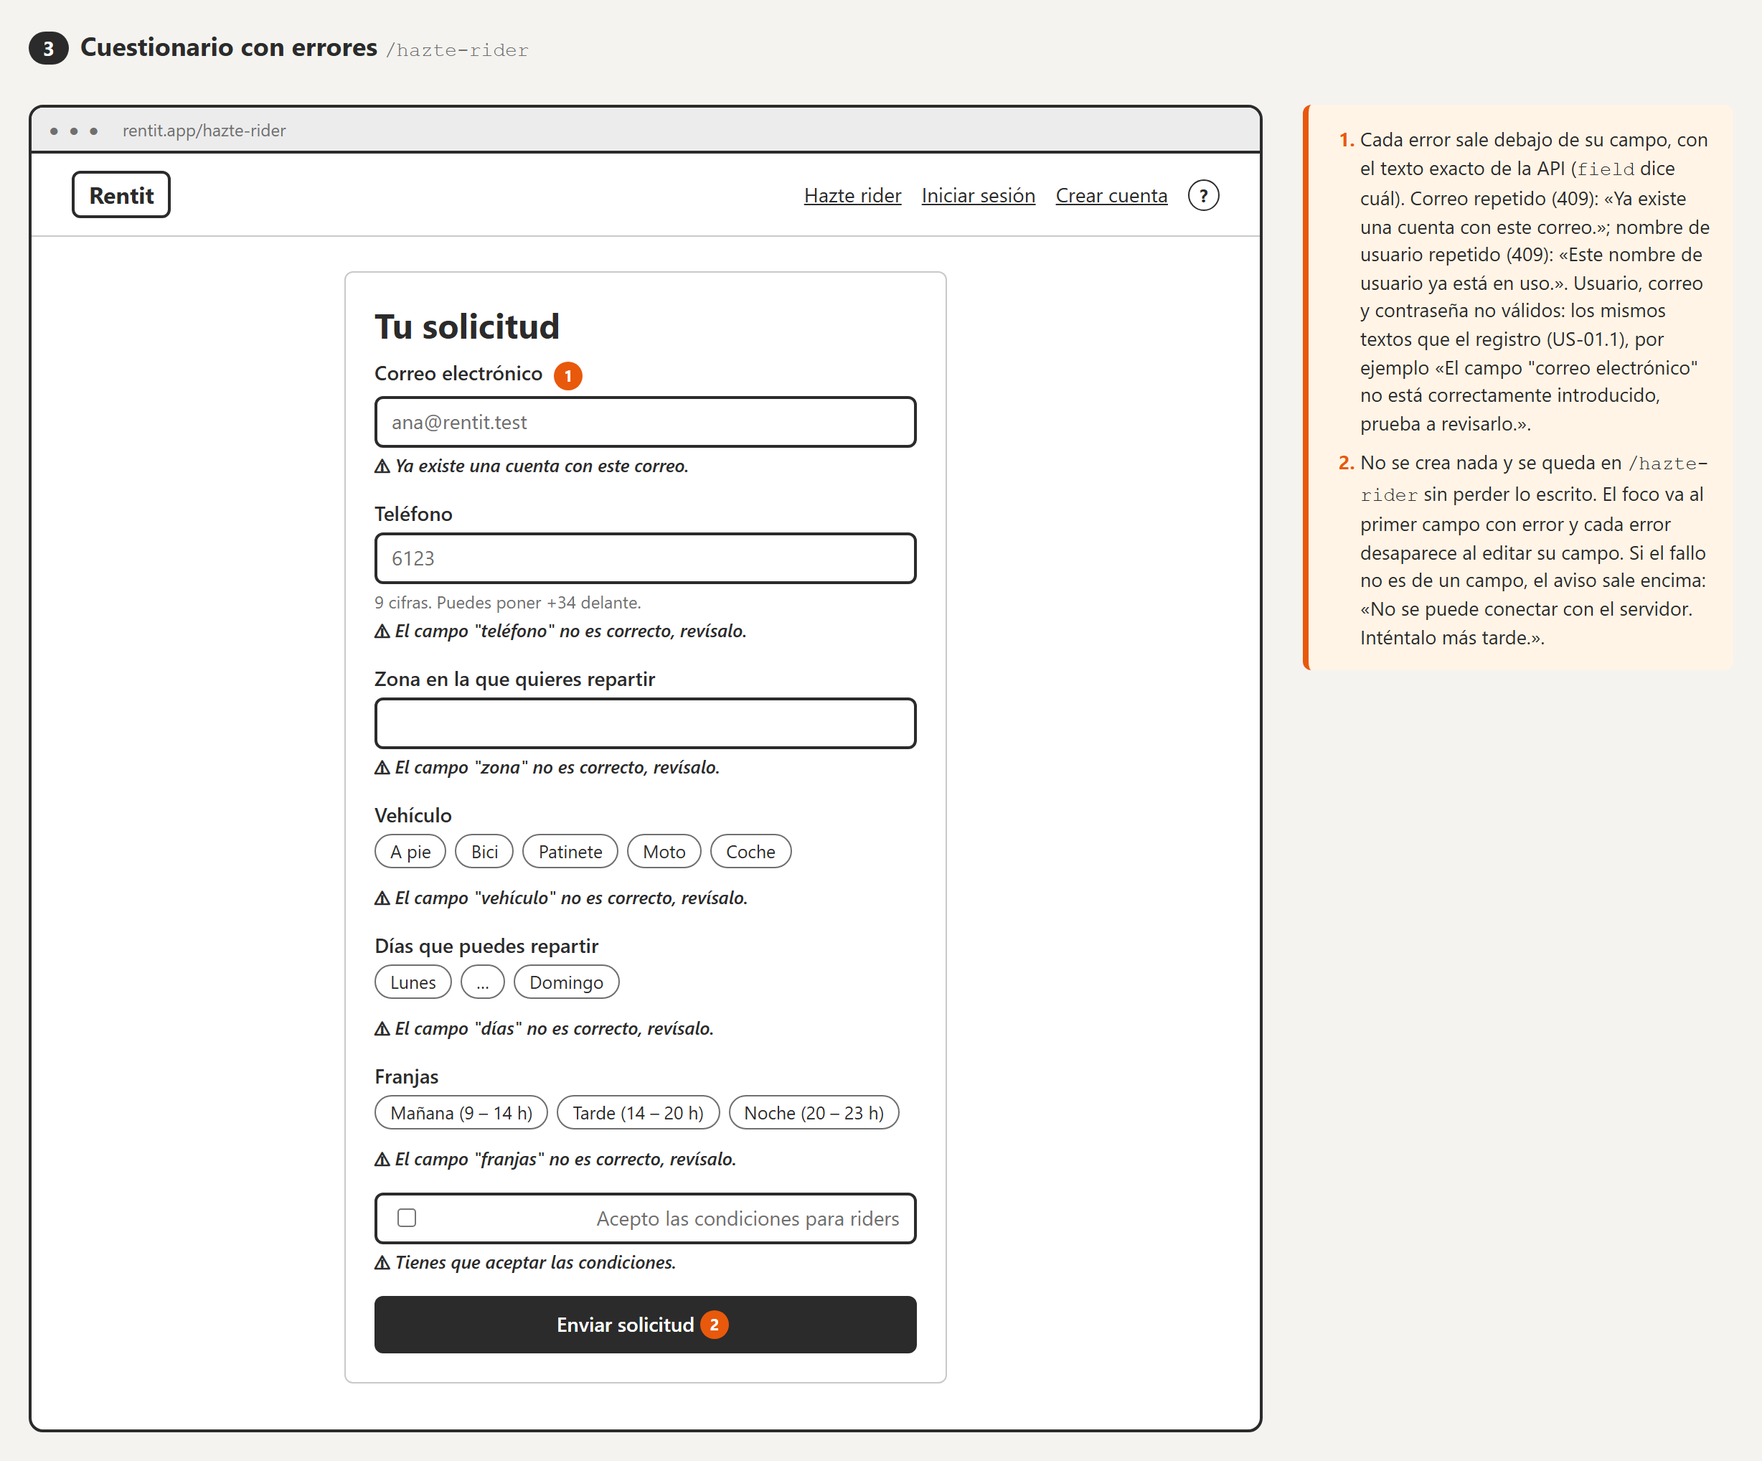
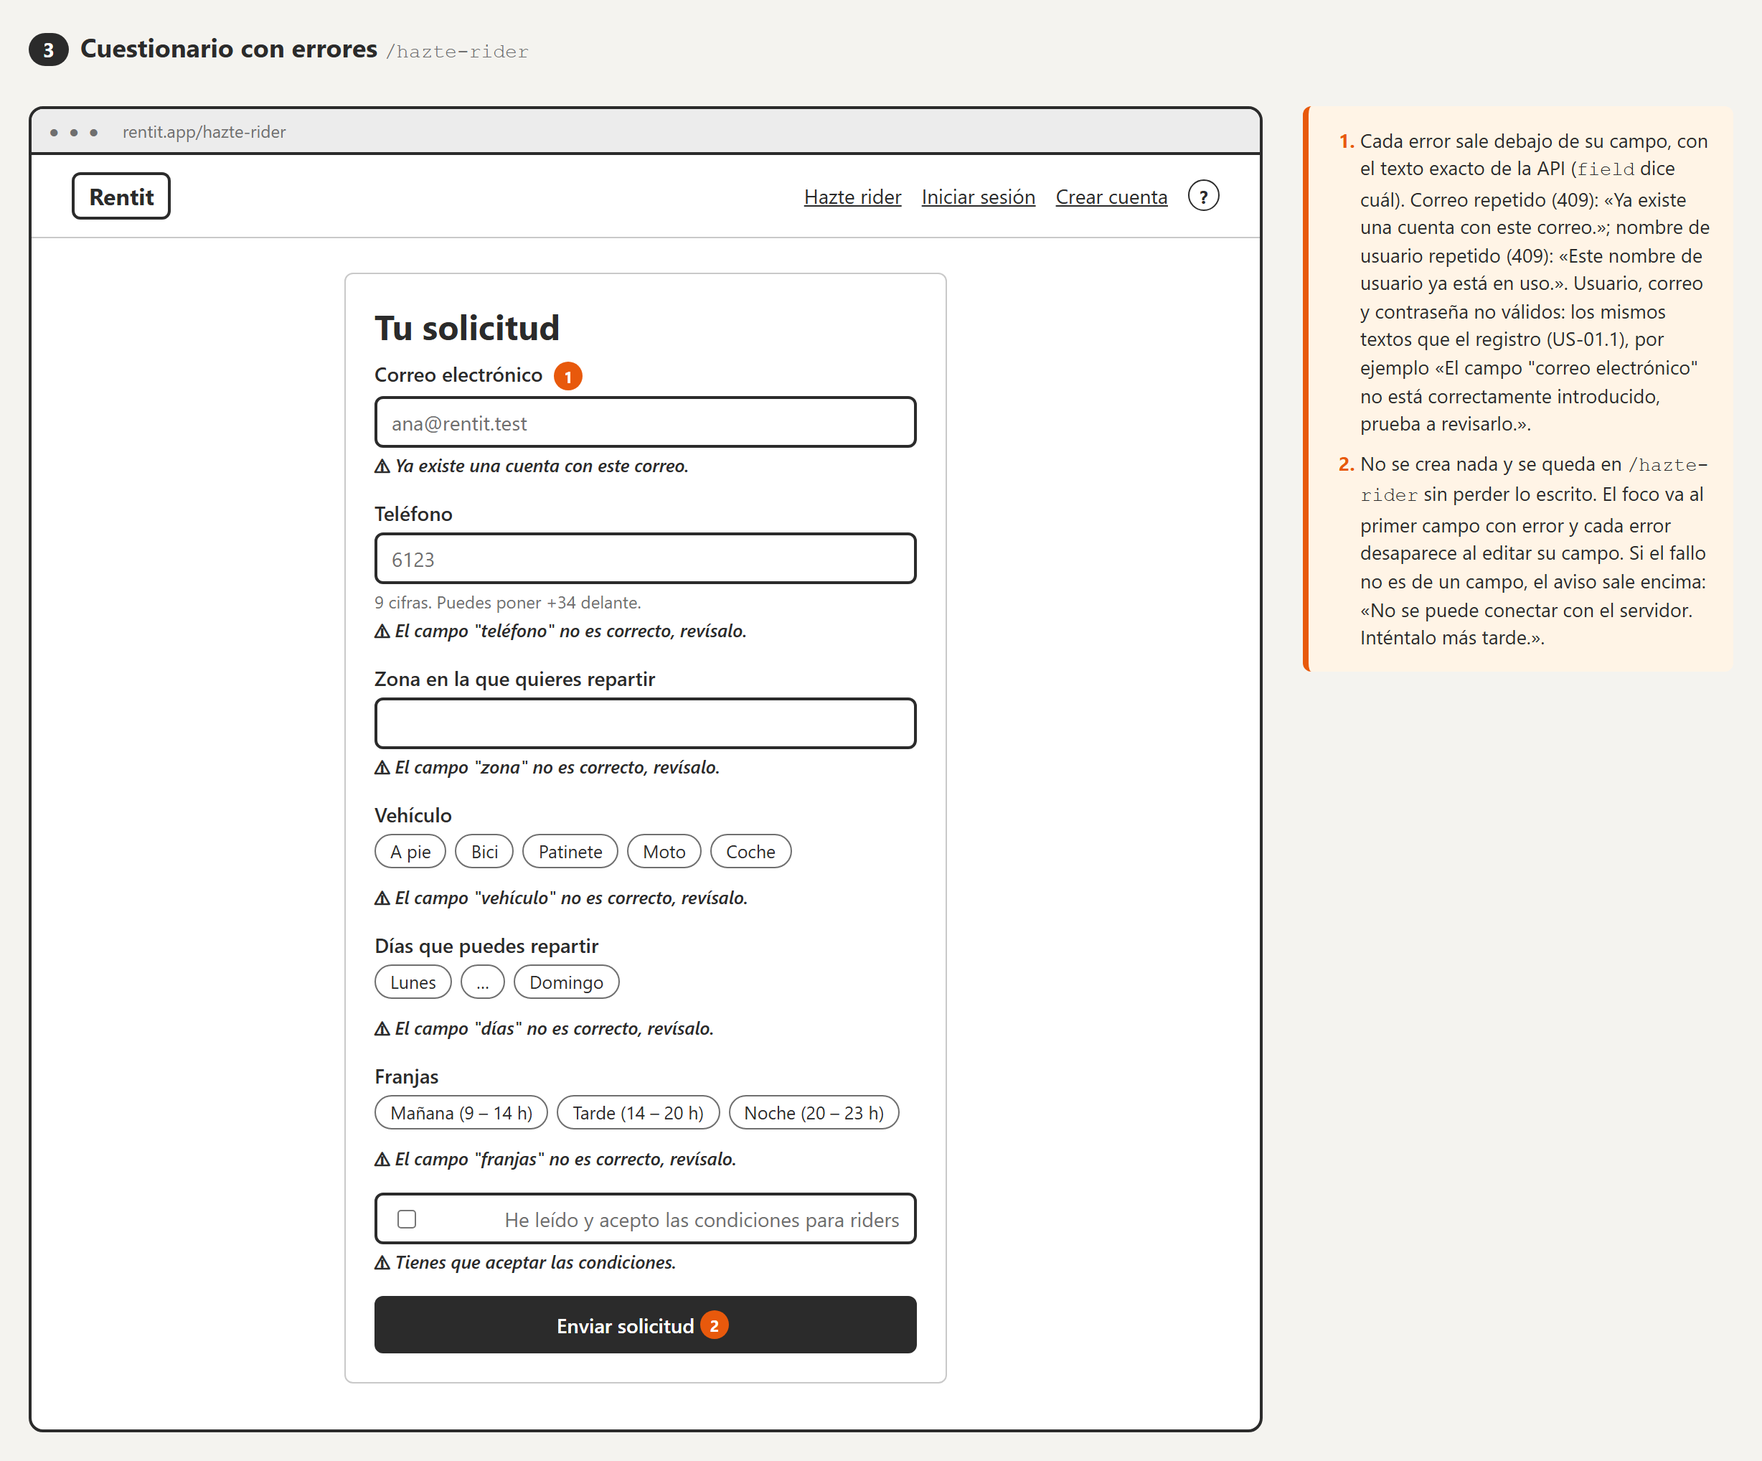
docs(wireframes): US-10.03 condiciones, estado en el inicio y rider sin búsqueda (#315)

diff --git a/docs/wireframes/US-10.03-hazte-rider/index.html b/docs/wireframes/US-10.03-hazte-rider/index.html
@@ -14,7 +14,7 @@
       </p>
       <p class="wf-meta">
         Issue #304 · Tarea T35 (#315) · Contrato del backend: #322 y #325 (<code>POST /api/riders</code>) · Wireframe de
-        baja fidelidad · Generado con asistencia de IA (Claude) – pendiente de revisión por Marc Sanz, 13/11/2026
+        baja fidelidad · Generado con asistencia de IA (Claude) – validado por Marc el 13/11/2026
       </p>
     </header>
 
@@ -54,7 +54,7 @@
       <ol class="wf-notas">
         <li>
           «Hazte rider» está en la cabecera de todas las páginas mientras no hay sesión (criterio 1). En el móvil va en la
-          barra inferior. Lleva a <code>/hazte-rider</code>. Con sesión no se ve (ver pregunta 5).
+          barra inferior. Lleva a <code>/hazte-rider</code>. Con sesión no se ve (decisión 4).
         </li>
       </ol>
     </section>
@@ -78,7 +78,7 @@
                 <h3 class="wf-h1">Hazte rider</h3>
                 <p class="wf-texto">Lleva objetos entre vecinos de tu barrio cuando te vaya bien.</p>
                 <p class="wf-texto"><strong>Qué hace un rider:</strong> recoge el objeto en casa del propietario y lo entrega a quien lo alquila.</p>
-                <p class="wf-texto"><strong>Cuánto cobra:</strong> 3, 5 o 7 € por entrega, según la distancia. <span class="wf-marca">1</span></p>
+                <p class="wf-texto"><strong>Cuánto cobras:</strong> la tarifa de entrega de cada trabajo, de 3 a 7 € según la distancia. <span class="wf-marca">1</span></p>
                 <p class="wf-texto"><strong>Requisitos:</strong> mayor de edad, móvil y un medio para moverte.</p>
                 <p class="wf-ayuda">La cuenta de rider es aparte: no sirve para alquilar ni publicar objetos. <span class="wf-marca">2</span></p>
               </div>
@@ -130,7 +130,19 @@
                   <p class="wf-ayuda">Marca al menos una.</p>
                 </div>
                 <div class="wf-campo">
-                  <div class="wf-input"><input type="checkbox" checked /> Acepto las <span class="wf-enlace">condiciones para riders</span> <span class="wf-marca">5</span></div>
+                  <label>▾ Condiciones para riders <span class="wf-marca">5</span></label>
+                  <ul class="wf-texto">
+                    <li>Colaboras de forma independiente y voluntaria: eliges cuándo y qué trabajos haces.</li>
+                    <li>Cobras por cada trabajo hecho: la tarifa de entrega que se muestra al aceptarlo.</li>
+                    <li>Cuidas los objetos y los entregas a tiempo, en el estado en que los recoges.</li>
+                    <li>Solo marcas un objeto como entregado con el código que te da quien lo recibe.</li>
+                    <li>Tus datos se usan solo para gestionar las entregas.</li>
+                    <li>Puedes darte de baja cuando quieras.</li>
+                    <li>Rentit puede desactivar tu cuenta si no cumples estas condiciones.</li>
+                  </ul>
+                </div>
+                <div class="wf-campo">
+                  <div class="wf-input"><input type="checkbox" checked /> He leído y acepto las condiciones para riders</div>
                 </div>
                 <span class="wf-boton wf-ancho">Enviar solicitud <span class="wf-marca">6</span></span>
                 <p class="wf-ayuda">¿Ya has enviado tu solicitud? <span class="wf-enlace">Inicia sesión</span> para ver cómo va.</p>
@@ -142,7 +154,7 @@
           <nav class="wf-nav"><span class="wf-logo">Rentit</span><span class="wf-icono-ayuda" title="Ayuda">?</span></nav>
           <div class="wf-contenido">
             <h3 class="wf-h1">Hazte rider</h3>
-            <p class="wf-texto">Lleva objetos entre vecinos de tu barrio. 3, 5 o 7 € por entrega.</p>
+            <p class="wf-texto">Lleva objetos entre vecinos de tu barrio. Cobras de 3 a 7 € por entrega.</p>
             <div class="wf-campo"><label>Nombre de usuario</label><div class="wf-input">pau.rider</div></div>
             <div class="wf-campo"><label>Correo electrónico</label><div class="wf-input">pau@ejemplo.com</div></div>
             <div class="wf-campo"><label>Contraseña</label><div class="wf-input">••••••••</div></div>
@@ -153,6 +165,8 @@
               <div class="wf-chips"><span class="wf-chip">A pie</span><span class="wf-chip wf-activo">Bici</span><span class="wf-chip">…</span></div>
             </div>
             <div class="wf-campo"><label>Días y franjas</label><div class="wf-lineas"><span></span></div></div>
+            <p class="wf-texto"><strong>▸ Condiciones para riders</strong></p>
+            <div class="wf-input"><input type="checkbox" checked /> He leído y acepto las condiciones</div>
             <span class="wf-boton wf-ancho">Enviar solicitud</span>
           </div>
           <div class="wf-barra-inferior">
@@ -162,8 +176,9 @@
       </div>
       <ol class="wf-notas">
         <li>
-          Lo que cobra el rider no está decidido: 3, 5 o 7 € es la tarifa que paga el arrendatario por la entrega (US-05.01,
-          #321). Ver pregunta 1.
+          Decisión de Marc (13/11), <strong>a confirmar por el equipo</strong>: el rider cobra la tarifa de entrega de cada
+          trabajo. Es la que paga el arrendatario cuando elige «Entrega por rider» (US-05.01, #321): 3, 5 o 7 € según la
+          distancia entre barrios.
         </li>
         <li>Decisión 2 del equipo: cuenta aparte, pendiente hasta que un admin la acepte, sin alquilar ni publicar.</li>
         <li>
@@ -176,7 +191,7 @@
           <code>days</code> = monday … sunday; <code>slots</code> = morning | afternoon | night. Vehículo: uno; días y franjas:
           al menos uno, sin repetir.
         </li>
-        <li>Obligatorio (<code>acceptedTerms: true</code>). El texto de las condiciones no existe todavía: ver pregunta 2.</li>
+        <li>Las condiciones van en un bloque desplegable dentro del formulario, justo encima de la casilla (cerrado en el móvil). La casilla es obligatoria (<code>acceptedTerms: true</code>).</li>
         <li>
           Al pulsar se valida todo a la vez. Mientras se envía, el botón dice «Enviando solicitud…» y está desactivado.
           <code>POST /api/riders</code> no inicia sesión.
@@ -232,7 +247,7 @@
                 <p class="wf-error">El campo "franjas" no es correcto, revísalo.</p>
               </div>
               <div class="wf-campo">
-                <div class="wf-input wf-con-error"><input type="checkbox" /> Acepto las condiciones para riders</div>
+                <div class="wf-input wf-con-error"><input type="checkbox" /> He leído y acepto las condiciones para riders</div>
                 <p class="wf-error">Tienes que aceptar las condiciones.</p>
               </div>
               <span class="wf-boton wf-ancho">Enviar solicitud <span class="wf-marca">2</span></span>
@@ -288,40 +303,48 @@
     <p class="wf-flecha">Inicia sesión antes de que un admin la revise (<code>riderStatus: "pending"</code>)</p>
 
     <section class="wf-pantalla" data-captura="5-pendiente">
-      <h2><span class="wf-paso">5</span>Rider pendiente: solo ve el estado de su solicitud <code>/</code></h2>
+      <h2><span class="wf-paso">5</span>Rider pendiente: el inicio enseña su solicitud <code>/</code></h2>
       <div class="wf-dispositivos">
         <div class="wf-escritorio" data-url="rentit.app/">
           <nav class="wf-nav">
             <span class="wf-logo">Rentit</span>
             <span class="wf-enlaces"
-              ><span class="wf-enlace">Cerrar sesión</span><span class="wf-marca">1</span><span class="wf-icono-ayuda" title="Ayuda">?</span></span
+              ><span class="wf-enlace">Inicio</span><span class="wf-enlace">Mi perfil</span><span class="wf-marca">1</span
+              ><span class="wf-icono-ayuda" title="Ayuda">?</span></span
             >
           </nav>
           <div class="wf-contenido">
             <div class="wf-centrado wf-tarjeta">
-              <h3 class="wf-h1">Hola, pau.rider</h3>
+              <h3 class="wf-h1">Tu solicitud para ser rider</h3>
               <div class="wf-chips"><span class="wf-chip wf-activo">Pendiente de revisión</span></div>
-              <p class="wf-texto">Un admin está revisando tu solicitud para ser rider. Cuando la acepte, aquí verás los trabajos disponibles. <span class="wf-marca">2</span></p>
+              <p class="wf-texto">Hola, pau.rider. Un admin está revisando tu solicitud. <span class="wf-marca">2</span></p>
+              <p class="wf-texto"><strong>Qué pasará:</strong> cuando la acepte, al entrar irás directamente a «Trabajos» para elegir entregas. Si la rechaza, aquí verás el motivo.</p>
+              <span class="wf-boton wf-secundario">Cerrar sesión</span>
             </div>
           </div>
         </div>
         <div class="wf-movil">
           <nav class="wf-nav"><span class="wf-logo">Rentit</span><span class="wf-icono-ayuda" title="Ayuda">?</span></nav>
           <div class="wf-contenido">
-            <h3 class="wf-h1">Hola, pau.rider</h3>
+            <h3 class="wf-h1">Tu solicitud para ser rider</h3>
             <div class="wf-chips"><span class="wf-chip wf-activo">Pendiente de revisión</span></div>
-            <p class="wf-texto">Un admin está revisando tu solicitud.</p>
+            <p class="wf-texto">Un admin está revisando tu solicitud. Cuando la acepte, irás a «Trabajos».</p>
             <span class="wf-boton wf-secundario wf-ancho">Cerrar sesión</span>
           </div>
-          <div class="wf-barra-inferior"><span>Inicio</span></div>
+          <div class="wf-barra-inferior"><span>Inicio</span><span>Mi perfil</span></div>
         </div>
       </div>
       <ol class="wf-notas">
         <li>
-          Con <code>isRider: true</code> no se ven «Mis objetos», «Mis solicitudes», «Publicar un objeto» ni el buscador
-          (criterio 5); tampoco «Trabajos» mientras no esté aceptada (criterio 4). Ver pregunta 3 sobre la ruta.
+          Decisión de Marc (13/11): un rider solo ve el estado de su solicitud y «Trabajos». Su cabecera es «Inicio» (o
+          «Trabajos» si está aceptado) y «Mi perfil». No ve el buscador, ni fichas de objetos, ni «Mis objetos», «Mis
+          solicitudes» o «Publicar un objeto». Si entra en una de esas rutas, vuelve a <code>/</code>.
         </li>
-        <li>Después del login, un rider va a esta pantalla en lugar de la página inicial.</li>
+        <li>
+          Después del login, un rider pendiente o rechazado va a <code>/</code>, que en lugar de la portada enseña esta
+          tarjeta: la pantalla nunca queda vacía. «Cerrar sesión» está en la tarjeta y en «Mi perfil», como en el resto de
+          la app.
+        </li>
       </ol>
     </section>
 
@@ -333,23 +356,28 @@
         <div class="wf-escritorio" data-url="rentit.app/">
           <nav class="wf-nav">
             <span class="wf-logo">Rentit</span>
-            <span class="wf-enlaces"><span class="wf-enlace">Cerrar sesión</span><span class="wf-icono-ayuda" title="Ayuda">?</span></span>
+            <span class="wf-enlaces"
+              ><span class="wf-enlace">Inicio</span><span class="wf-enlace">Mi perfil</span
+              ><span class="wf-icono-ayuda" title="Ayuda">?</span></span
+            >
           </nav>
           <div class="wf-contenido">
             <div class="wf-centrado wf-tarjeta">
-              <h3 class="wf-h1">Hola, pau.rider</h3>
+              <h3 class="wf-h1">Tu solicitud para ser rider</h3>
               <div class="wf-chips"><span class="wf-chip">Solicitud rechazada</span></div>
-              <p class="wf-texto">Un admin ha rechazado tu solicitud para ser rider.</p>
+              <p class="wf-texto">Hola, pau.rider. Un admin ha rechazado tu solicitud para ser rider.</p>
               <p class="wf-aviso">Motivo: la zona indicada está fuera de la ciudad. <span class="wf-marca">1</span></p>
-              <p class="wf-ayuda">Si crees que es un error, escríbenos desde la página de ayuda. <span class="wf-marca">2</span></p>
+              <p class="wf-texto"><strong>Qué puedes hacer:</strong> si crees que es un error, escríbenos desde la página de ayuda. <span class="wf-marca">2</span></p>
+              <span class="wf-boton wf-secundario">Cerrar sesión</span>
             </div>
           </div>
         </div>
       </div>
       <ol class="wf-notas">
         <li>
-          El motivo es opcional: sin motivo, no sale esta línea. El login solo devuelve <code>riderStatus: "rejected"</code>;
-          el motivo (<code>rejectionReason</code>, T37) todavía no llega al propio rider. Ver pregunta 4.
+          El motivo es opcional: sin motivo no sale esta línea. Hoy el login y <code>/api/usuarios/me</code> solo devuelven
+          <code>riderStatus: "rejected"</code>. Se ha pedido a Max (T34) que añada <code>rejectionReason</code>; el
+          frontend ya lo enseña en cuanto llegue.
         </li>
         <li>No hay forma de volver a pedirlo desde aquí: queda fuera de esta historia.</li>
       </ol>
@@ -358,56 +386,57 @@
     <p class="wf-flecha">Si un admin la acepta (<code>riderStatus: "approved"</code>) → destino</p>
 
     <section class="wf-pantalla" data-captura="7-aceptada">
-      <h2><span class="wf-paso">7</span>Destino: rider aceptado, sin «Alquilar» ni «Publicar» <code>/</code></h2>
+      <h2><span class="wf-paso">7</span>Destino: rider aceptado, va a «Trabajos» <code>/trabajos</code></h2>
       <div class="wf-dispositivos">
-        <div class="wf-escritorio" data-url="rentit.app/">
+        <div class="wf-escritorio" data-url="rentit.app/trabajos">
           <nav class="wf-nav">
             <span class="wf-logo">Rentit</span>
             <span class="wf-enlaces"
-              ><span class="wf-enlace">Trabajos</span><span class="wf-marca">1</span><span class="wf-enlace">Cerrar sesión</span
+              ><span class="wf-enlace">Trabajos</span><span class="wf-marca">1</span><span class="wf-enlace">Mi perfil</span
               ><span class="wf-icono-ayuda" title="Ayuda">?</span></span
             >
           </nav>
           <div class="wf-contenido">
-            <h3 class="wf-h1">Hola, pau.rider</h3>
+            <h3 class="wf-h1">Trabajos</h3>
             <div class="wf-chips"><span class="wf-chip wf-activo">Rider activo</span></div>
-            <p class="wf-texto">Ya puedes elegir trabajos de entrega.</p>
-            <span class="wf-boton">Ver trabajos</span>
+            <p class="wf-texto">Aquí verás los trabajos de entrega disponibles y podrás aceptar los que quieras hacer.</p>
             <p class="wf-ayuda">Esta cuenta no puede alquilar ni publicar objetos. Para alquilar, usa otra cuenta. <span class="wf-marca">2</span></p>
           </div>
         </div>
         <div class="wf-movil">
           <nav class="wf-nav"><span class="wf-logo">Rentit</span><span class="wf-icono-ayuda" title="Ayuda">?</span></nav>
           <div class="wf-contenido">
-            <h3 class="wf-h1">Hola, pau.rider</h3>
+            <h3 class="wf-h1">Trabajos</h3>
             <div class="wf-chips"><span class="wf-chip wf-activo">Rider activo</span></div>
-            <span class="wf-boton wf-ancho">Ver trabajos</span>
+            <p class="wf-texto">Aquí verás los trabajos de entrega disponibles.</p>
           </div>
-          <div class="wf-barra-inferior"><span>Inicio</span><span>Trabajos</span></div>
+          <div class="wf-barra-inferior"><span>Trabajos</span><span>Mi perfil</span></div>
         </div>
       </div>
       <ol class="wf-notas">
-        <li>«Trabajos» y su pantalla son de US-10.01 (#78). Aquí solo se ve el enlace.</li>
         <li>
-          Criterio 5: no aparecen «Publicar un objeto», «Mis objetos» ni «Mis solicitudes». Si aun así llega a solicitar o
-          publicar (por ejemplo, desde una ficha o por la API), sale el error de la API: «Las cuentas de rider no pueden
-          solicitar ni publicar objetos.».
+          Al iniciar sesión, un rider aceptado va directamente a <code>/trabajos</code> (también si entra en <code>/</code>).
+          La lista de trabajos es de US-10.01 (#78, T18 de Kai): mientras no exista, la página dice qué verá.
+        </li>
+        <li>
+          Criterio 5: no aparecen «Publicar un objeto», «Mis objetos», «Mis solicitudes» ni el buscador. Si aun así llega a
+          solicitar o publicar por la API, sale el error: «Las cuentas de rider no pueden solicitar ni publicar objetos.».
         </li>
       </ol>
     </section>
 
     <section class="wf-pantalla">
-      <h2><span class="wf-paso">?</span>Preguntas abiertas para el equipo</h2>
+      <h2><span class="wf-paso">✓</span>Decisiones de Marc (13/11/2026)</h2>
       <ol class="wf-notas">
-        <li>¿Cuánto cobra el rider por trabajo? La historia pide mostrarlo y no está decidido (¿toda la tarifa de 3/5/7 €?).</li>
-        <li>¿Qué dicen las «condiciones para riders»? ¿Una página o un texto desplegable?</li>
-        <li>¿El estado de la solicitud va en <code>/</code> o en una ruta propia (<code>/hazte-rider/estado</code>)?</li>
+        <li>El rider cobra la tarifa de entrega de cada trabajo (3–7 € según la distancia). A confirmar por el equipo.</li>
+        <li>Las condiciones para riders van en un bloque desplegable dentro del formulario, encima de la casilla.</li>
         <li>
-          ¿De dónde saca el rider rechazado su motivo? Hace falta que el login o <code>/api/usuarios/me</code> devuelvan
-          <code>rejectionReason</code>, o un <code>GET /api/riders/me</code> (Max, T34, o Alex, T37).
+          El estado de la solicitud se ve en el inicio (<code>/</code>), en una tarjeta en lugar de la portada. El rider
+          aceptado va a «Trabajos».
         </li>
-        <li>Con una sesión normal (no rider), ¿se oculta «Hazte rider»? Aquí se oculta, porque la cuenta de rider es aparte.</li>
-        <li>¿Un rider puede buscar y ver fichas de objetos, o solo ve su estado y «Trabajos»?</li>
+        <li>Con una sesión normal no se ve «Hazte rider».</li>
+        <li>Un rider solo ve el estado de su solicitud y «Trabajos», con «Mi perfil».</li>
+        <li>Pendiente de Max (T34): que el login y <code>/api/usuarios/me</code> devuelvan <code>rejectionReason</code>.</li>
       </ol>
     </section>
   </body>
